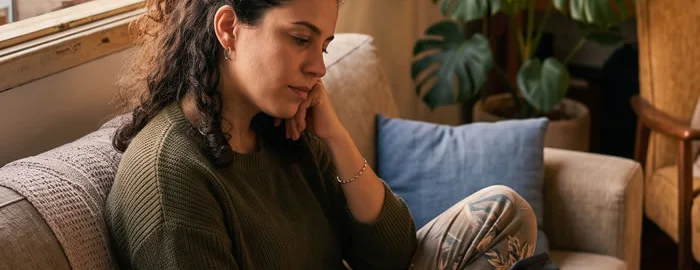
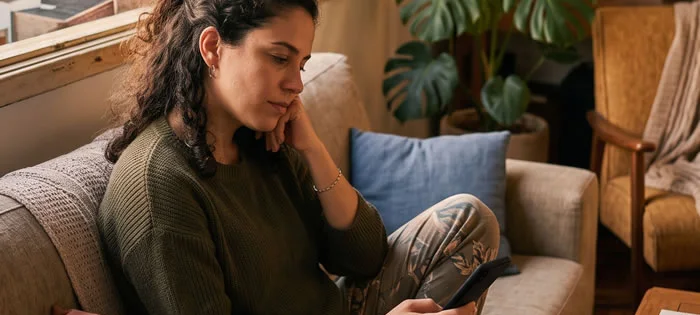
Damas BR: Card 2 imagem mostra o celular na mão (identificação) + headline menor
Troca p/ card2-new (mais larga), recorte 700x315 com o celular visível,
faixa slim 165px; headline reduzida p/ compensar a altura.

diff --git a/apps/corte/app/mulher/FunilSwipe.js b/apps/corte/app/mulher/FunilSwipe.js
@@ -332,14 +332,14 @@ export default function FunilSwipe({ preco = "R$ 67,90", precoDe = "", url = "",
       {step === 1 && (
         <>
           <div className="sw-card rola" key="c1">
-            <div className="sw-muda-h" style={{ fontSize: "clamp(24px,6.4vw,30px)", marginBottom: 8 }}>O problema nunca foi você</div>
+            <div className="sw-muda-h" style={{ fontSize: "clamp(23px,6vw,28px)", marginBottom: 6 }}>O problema nunca foi você</div>
             <p className="sw-p" style={{ margin: "0 auto 4px", fontWeight: 700, color: "var(--gold-2)" }}>Já te disseram de tudo:</p>
             <ul className="sw-erros">
               <li>Ter paciência e esperar o tempo certo.</li>
               <li>Se fazer de difícil pra ele correr atrás.</li>
             </ul>
             <p className="sw-destaque" style={{ fontSize: "clamp(18px,5vw,22px)", fontStyle: "normal", margin: "6px auto" }}>E, mesmo assim, nada mudou.</p>
-            <img className="sw-hero-img slim" src="/livro/cena-desanimada.webp" alt="" width="700" height="270" style={{ margin: "4px auto 8px" }} />
+            <img className="sw-hero-img slim" src="/livro/cena-desanimada.webp" alt="" width="700" height="315" style={{ margin: "4px auto 8px" }} />
             <p className="sw-p" style={{ fontWeight: 700, color: "#f3e6cd" }}>Porque todos te mostraram uma porta — mas nunca te entregaram <b style={{ color: "var(--gold-2)" }}>a chave</b>.</p>
           </div>
           <div className="sw-foot"><button className="sw-btn" onClick={avancar}>Quero descobrir →</button></div>

diff --git a/apps/corte/app/globals.css b/apps/corte/app/globals.css
@@ -834,7 +834,7 @@ body.sw-fs .app{padding-bottom:0;max-width:560px;height:100dvh;overflow:hidden}
 .sw-p{font:400 clamp(16px,4.9vw,18px)/1.7 var(--serif);color:#f2e8d4;text-align:center;max-width:34ch;margin:16px auto 0}
 /* imagem-herói do Card 1 (mesma cena do criativo → continuidade anúncio↔landing) */
 .sw-hero-img{display:block;width:100%;max-width:400px;height:auto;max-height:250px;object-fit:cover;border-radius:14px;margin:16px auto 20px;border:1px solid var(--gold-soft);box-shadow:0 6px 20px rgba(0,0,0,.35)}
-.sw-hero-img.slim{max-height:150px}
+.sw-hero-img.slim{max-height:165px}
 .sw-q{font:italic 500 clamp(19px,5.4vw,24px)/1.4 var(--disp);color:var(--gold-2);text-align:center;text-wrap:balance;max-width:24ch;margin:20px auto 0}
 
 /* rodapé de avanço */
